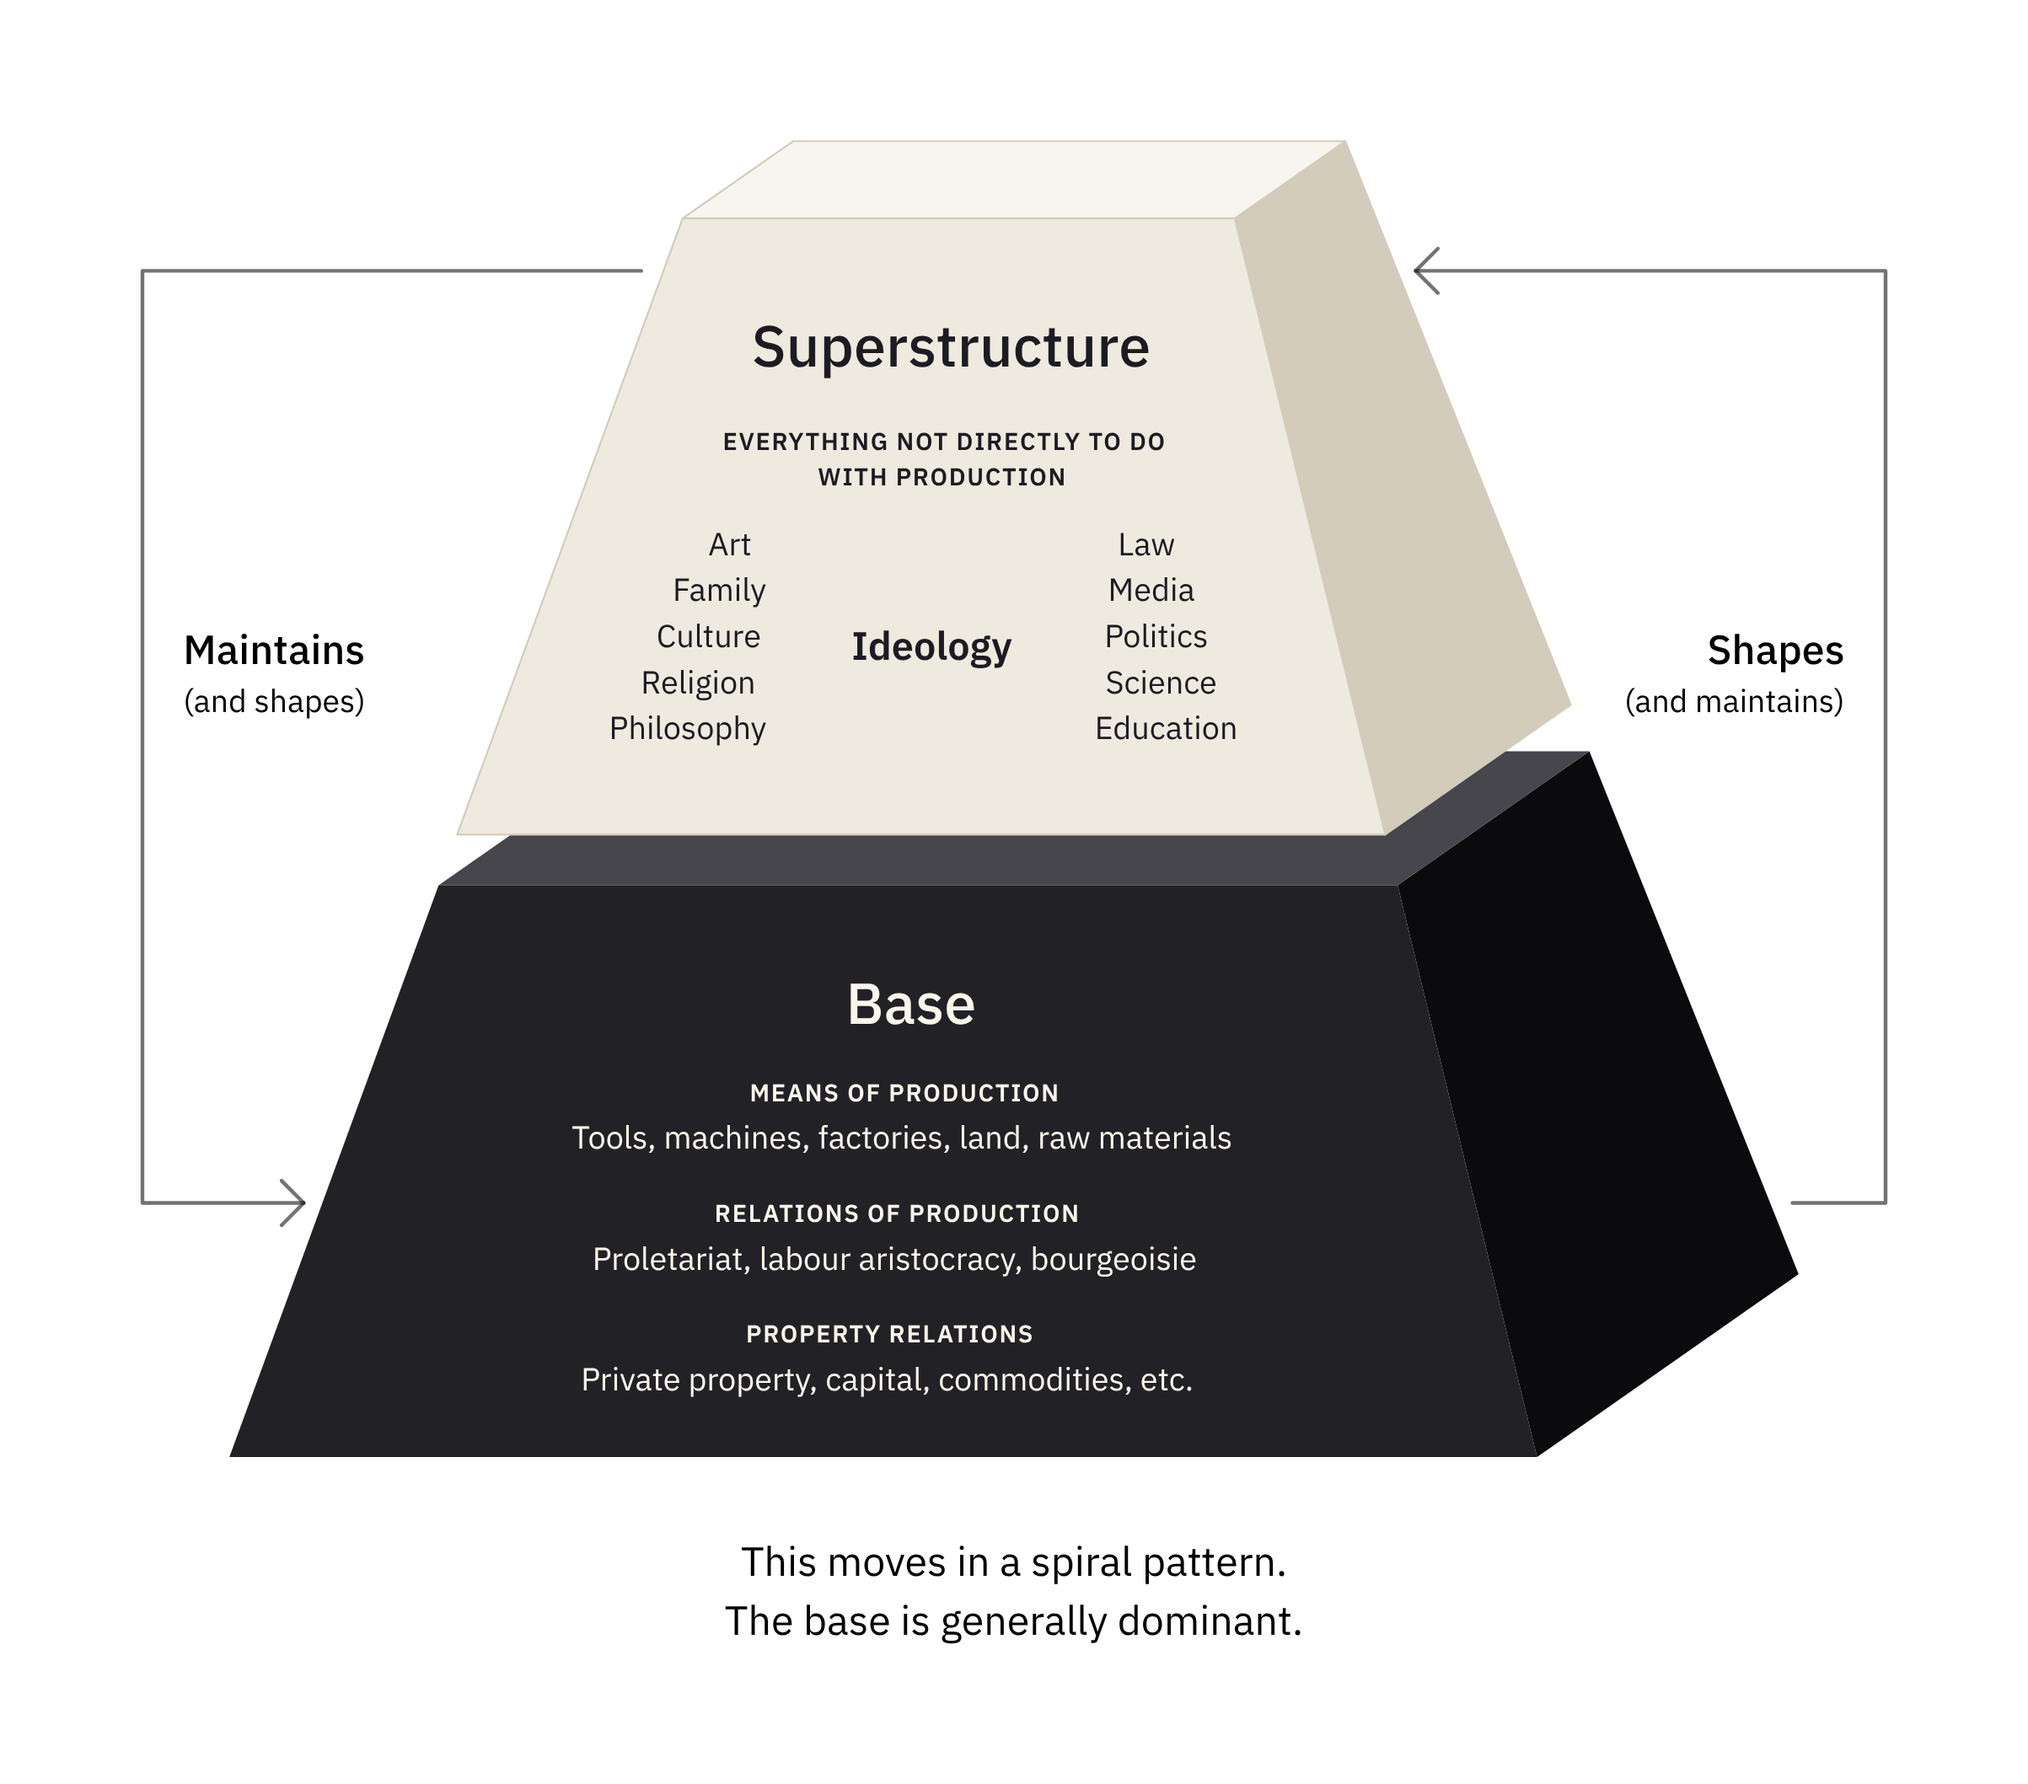
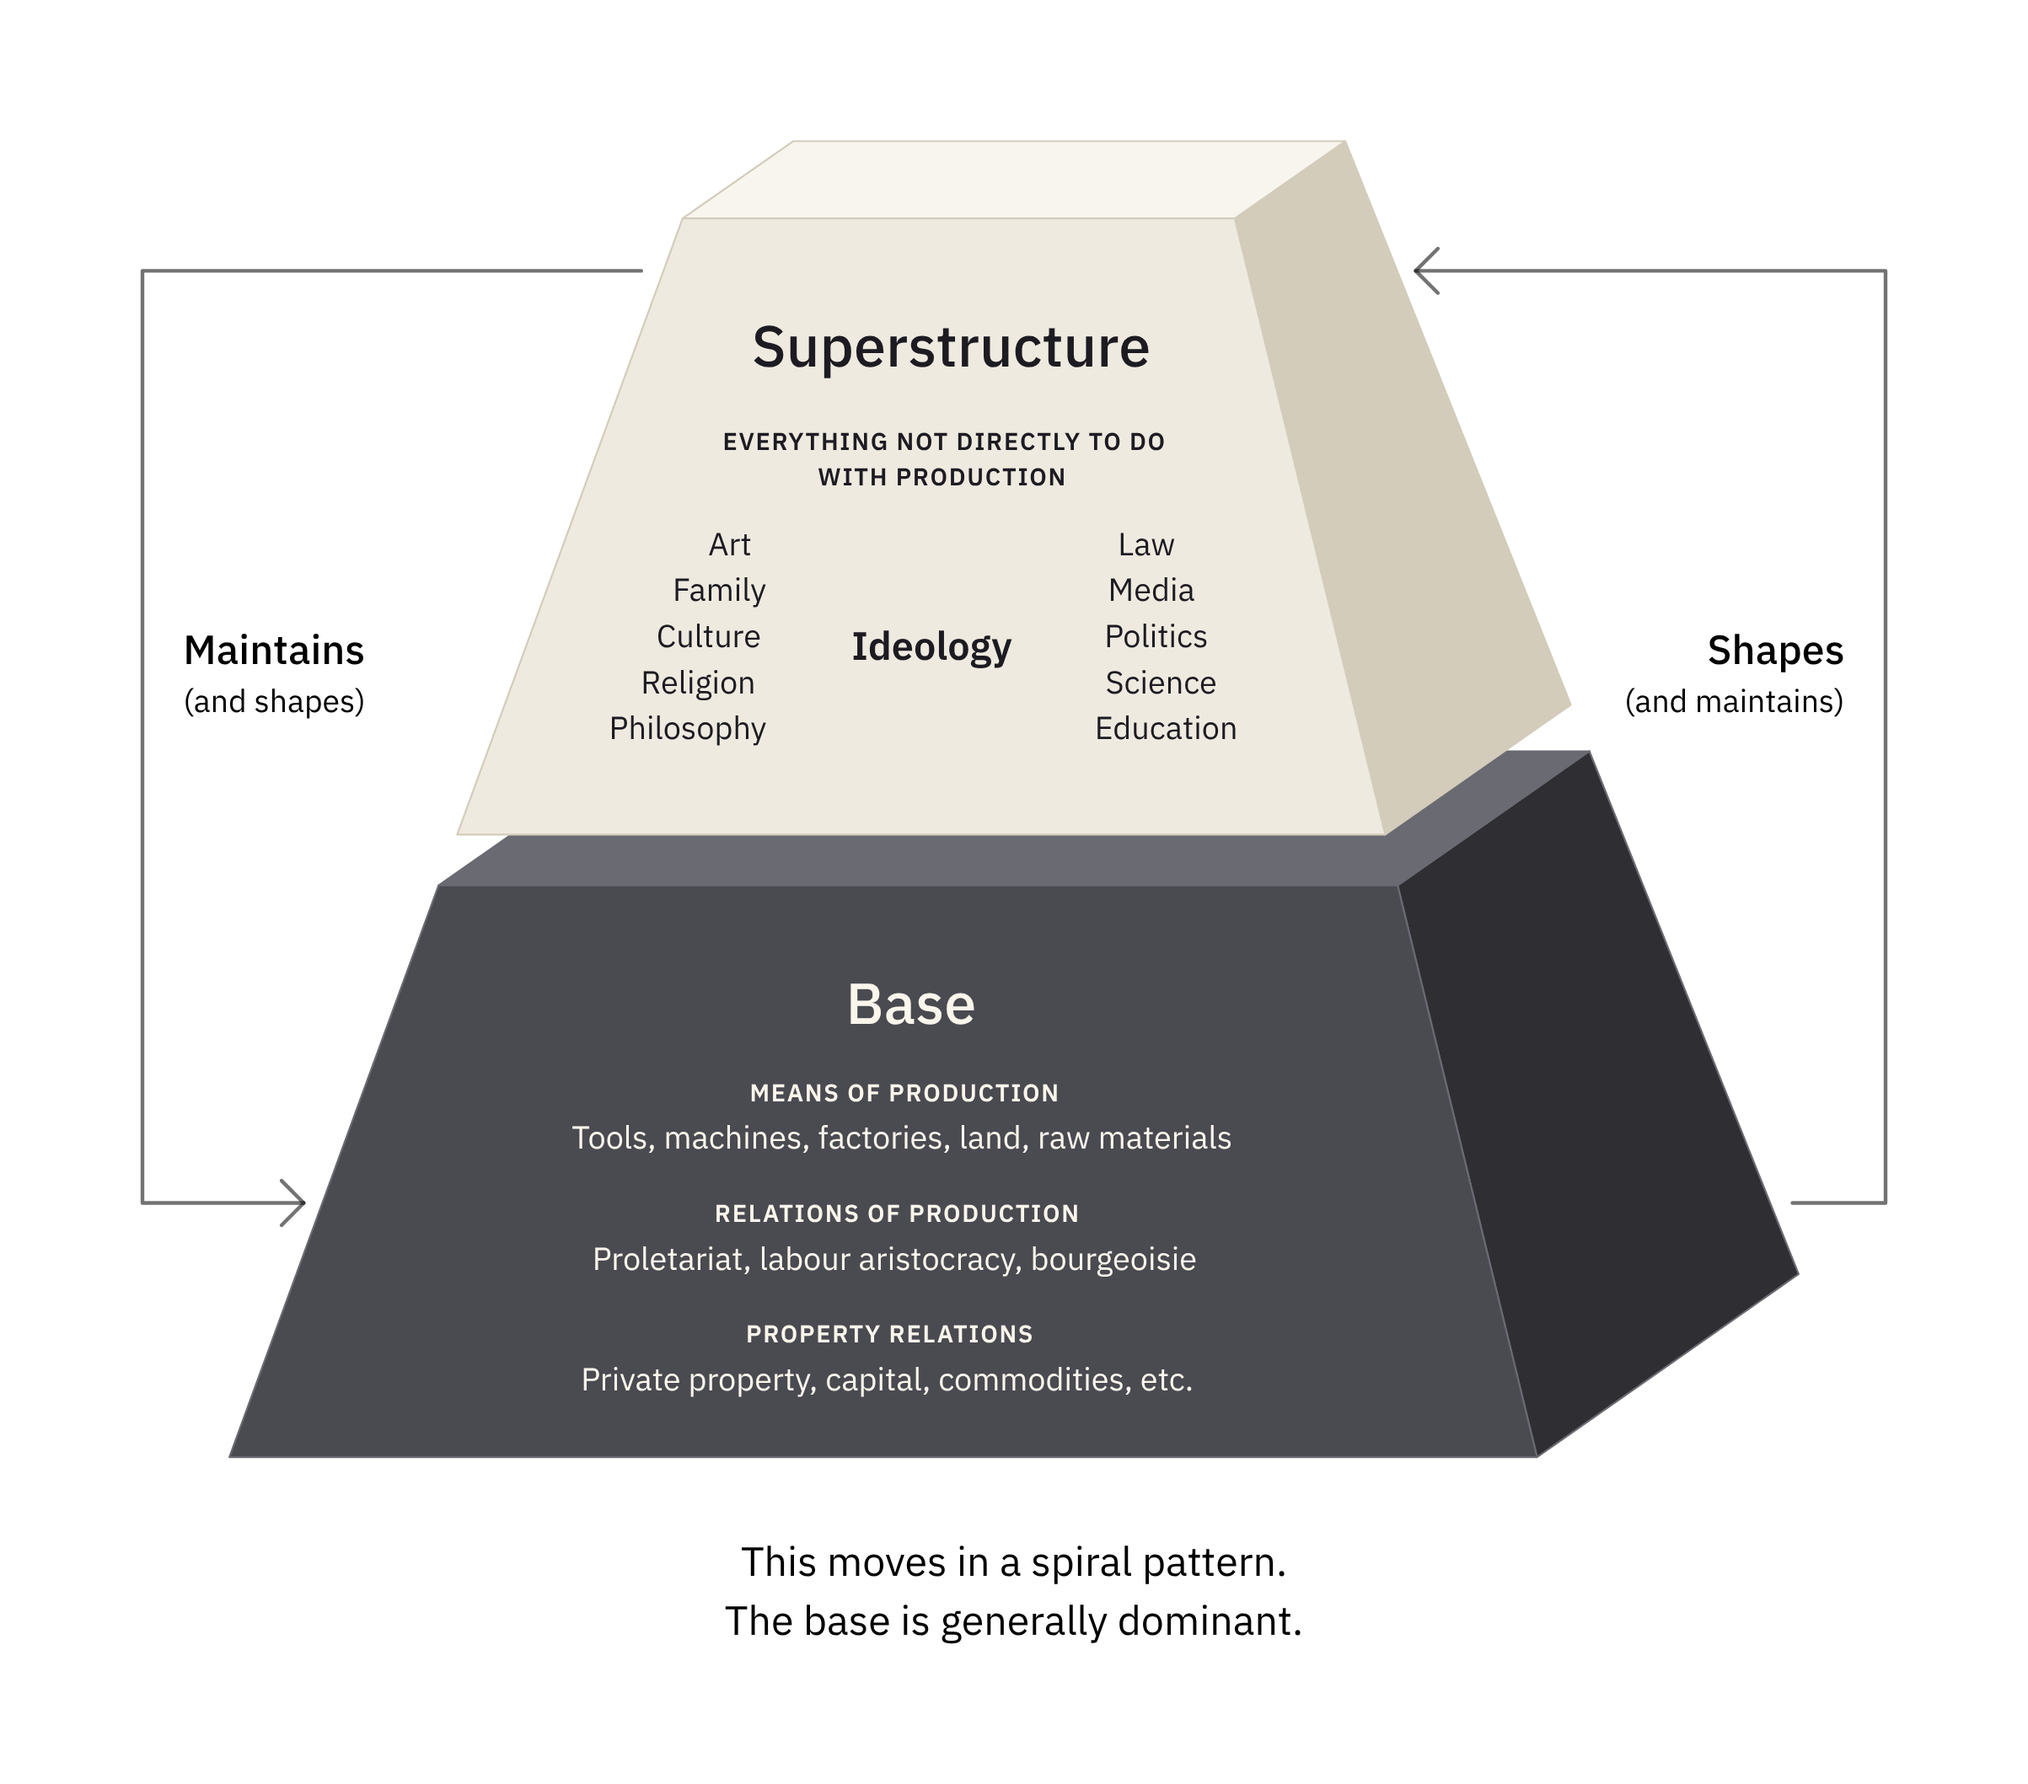
Base-Superstructure: base in the dark grey of Cultural Materialism's structure; every section in both diagrams edged; Cultural Materialism's diagram moved up
Claude-Session: https://claude.ai/code/session_01LgHoU9QwZ5ZurXZhgzwbWe

Changed region(s): [[0.0935, 0.4053, 0.904, 0.8418]]

diff --git a/diagram/index.html b/diagram/index.html
@@ -2054,10 +2054,23 @@
       fill: #1d1b22;
     }
 
-    .marx-fig .mf-super polygon {
-      stroke: #d3ccbb;
+    .marx-fig .mf-tier polygon {
       stroke-width: 1.2;
       stroke-linejoin: round;
+    }
+
+    .marx-fig .mf-super polygon {
+      stroke: #d3ccbb;
+    }
+
+    /* (and every other section edged likewise, a shade lighter than itself) */
+    .marx-fig:not(.cm-fig) .mf-base polygon,
+    .cm-fig .mf-mid polygon {
+      stroke: #6a6a72;
+    }
+
+    .cm-fig .mf-base polygon {
+      stroke: #46464c;
     }
 
     .marx-fig .mf-head {
@@ -3926,7 +3939,7 @@
         </div>
       </div>
       <div class="marx-figure cm-figure" hidden>
-          <svg class="marx-fig cm-fig" viewBox="-130 150 1460 1000" role="img" aria-label="Cultural materialism as three sections of a pyramid: the infrastructure, the tech stack, at the base; the structure, political economy, on it; the superstructure, cultural psychology, at the top. The infrastructure shapes the structure and superstructure, and they feed back on it; the infrastructure is primary">
+          <svg class="marx-fig cm-fig" viewBox="-130 205 1460 905" role="img" aria-label="Cultural materialism as three sections of a pyramid: the infrastructure, the tech stack, at the base; the structure, political economy, on it; the superstructure, cultural psychology, at the top. The infrastructure shapes the structure and superstructure, and they feed back on it; the infrastructure is primary">
           <g class="mf-around">
           <path class="mf-line" d="M265.3 656.7 H110 V881.5 H196.2"/>
           <path class="mf-line" d="M184.2 869.5 L196.2 881.5 L184.2 893.5"/>
@@ -3987,7 +4000,7 @@
           <path class="mf-line" d="M828.6 260.9 L816.6 272.9 L828.6 284.9"/>
           </g>
           <g transform="matrix(0.82 0 0 0.82 108.0 100.8)">
-          <g class="mf-tier mf-base"><polygon class="f-side" fill="#0b0b0d" points="944.0,990.2 1116.0,869.8 978.4,525.9 852.3,614.1"/><polygon class="f-top" fill="#46464c" points="221.6,614.1 852.3,614.1 978.4,525.9 347.7,525.9"/><polygon class="f-body" fill="#222226" points="84.0,990.2 944.0,990.2 852.3,614.1 221.6,614.1"/></g>
+          <g class="mf-tier mf-base"><polygon class="f-side" fill="#2e2e33" points="944.0,990.2 1116.0,869.8 978.4,525.9 852.3,614.1"/><polygon class="f-top" fill="#6a6a72" points="221.6,614.1 852.3,614.1 978.4,525.9 347.7,525.9"/><polygon class="f-body" fill="#4a4a51" points="84.0,990.2 944.0,990.2 852.3,614.1 221.6,614.1"/></g>
           <g class="mf-tier mf-super"><polygon class="f-side" fill="#d3ccbb" points="844.1,580.7 966.2,495.3 817.9,124.6 745.2,175.4"/><polygon class="f-top" fill="#f8f5ee" points="382.1,175.4 745.2,175.4 817.9,124.6 454.8,124.6"/><polygon class="f-body" fill="#efeadf" points="233.8,580.7 844.1,580.7 745.2,175.4 382.1,175.4"/></g>
           <g class="mf-words">
           <text class="mf-title mf-dark" x="558.7" y="272.9" text-anchor="middle">Superstructure</text>
@@ -5112,8 +5125,8 @@
       // Base-Superstructure: the stack, or the diagram (and the download
       // follows whichever is shown)
       // (Cultural Materialism likewise)
-      [['.marx-view', '../assets/downloads/base-superstructure-diagram.png?v=8aa7fa1d', 'Classical Marxism - Base and Superstructure.png'],
-       ['.structures-view', '../assets/downloads/cultural-materialism-diagram.png?v=50ac8a47', 'Cultural Materialism - Infrastructure-Structure-Superstructure (Diagram).png']].forEach(function (V) {
+      [['.marx-view', '../assets/downloads/base-superstructure-diagram.png?v=d5c06bc4', 'Classical Marxism - Base and Superstructure.png'],
+       ['.structures-view', '../assets/downloads/cultural-materialism-diagram.png?v=17228104', 'Cultural Materialism - Infrastructure-Structure-Superstructure (Diagram).png']].forEach(function (V) {
         var view = document.querySelector(V[0]);
         var fig = view.querySelector('.marx-figure');
         var link = view.querySelector('.model-save');

diff --git a/tools/make-cm-pyramid.py b/tools/make-cm-pyramid.py
@@ -25,7 +25,7 @@ def mid(y):
 # black, dark grey and off white, from the base up
 BLUE = ('#222226', '#46464c', '#0b0b0d'); GOLD = ('#4a4a51', '#6a6a72', '#2e2e33'); VIOLET = ('#efeadf', '#f8f5ee', '#d3ccbb')
 I0, I1 = 0, 300; T0, T1 = 330, 610; U0, U1 = 640, 900
-svg = ['<svg class="marx-fig cm-fig" viewBox="-130 150 1460 1000" role="img" aria-label="Cultural materialism as three sections of a pyramid: the infrastructure, the tech stack, at the base; the structure, political economy, on it; the superstructure, cultural psychology, at the top. The infrastructure shapes the structure and superstructure, and they feed back on it; the infrastructure is primary">']
+svg = ['<svg class="marx-fig cm-fig" viewBox="-130 205 1460 905" role="img" aria-label="Cultural materialism as three sections of a pyramid: the infrastructure, the tech stack, at the base; the structure, political economy, on it; the superstructure, cultural psychology, at the top. The infrastructure shapes the structure and superstructure, and they feed back on it; the infrastructure is primary">']
 def left_at(Y):
     y = (CY + KY * A - Y) / (1 + KY * A / HP); h = hw(y); return P(-h, y, h)
 def right_at(Y):

diff --git a/tools/make-marx-pyramid.py b/tools/make-marx-pyramid.py
@@ -27,8 +27,8 @@ def tier(y0, y1, band, c):
     return ''.join(out)
 def mid(y):           # the centre of the front face, on screen, at height y
     h = hw(y); return P(0, y, h)
-# the superstructure off white, the base black
-V = ('#efeadf', '#e2dccd', '#f8f5ee', '#d3ccbb'); G = ('#222226', '#18181b', '#46464c', '#0b0b0d')
+# the superstructure off white, the base dark grey (as Cultural Materialism's structure)
+V = ('#efeadf', '#e2dccd', '#f8f5ee', '#d3ccbb'); G = ('#4a4a51', '#3a3a40', '#6a6a72', '#2e2e33')
 B0, B1 = 0, 360; S0, S1 = 392, 780; BAND = 66
 svg = ['<svg class="marx-fig" viewBox="0 150 1200 900" role="img" aria-label="The base and the superstructure as two sections of a pyramid, the superstructure above: the superstructure, everything not directly to do with production, maintains (and shapes) the base; the base, the means and relations of production, shapes (and maintains) the superstructure; this moves in a spiral pattern, and the base is generally dominant">']
 # the relations: plain lines with open arrowheads, mirroring each other -
